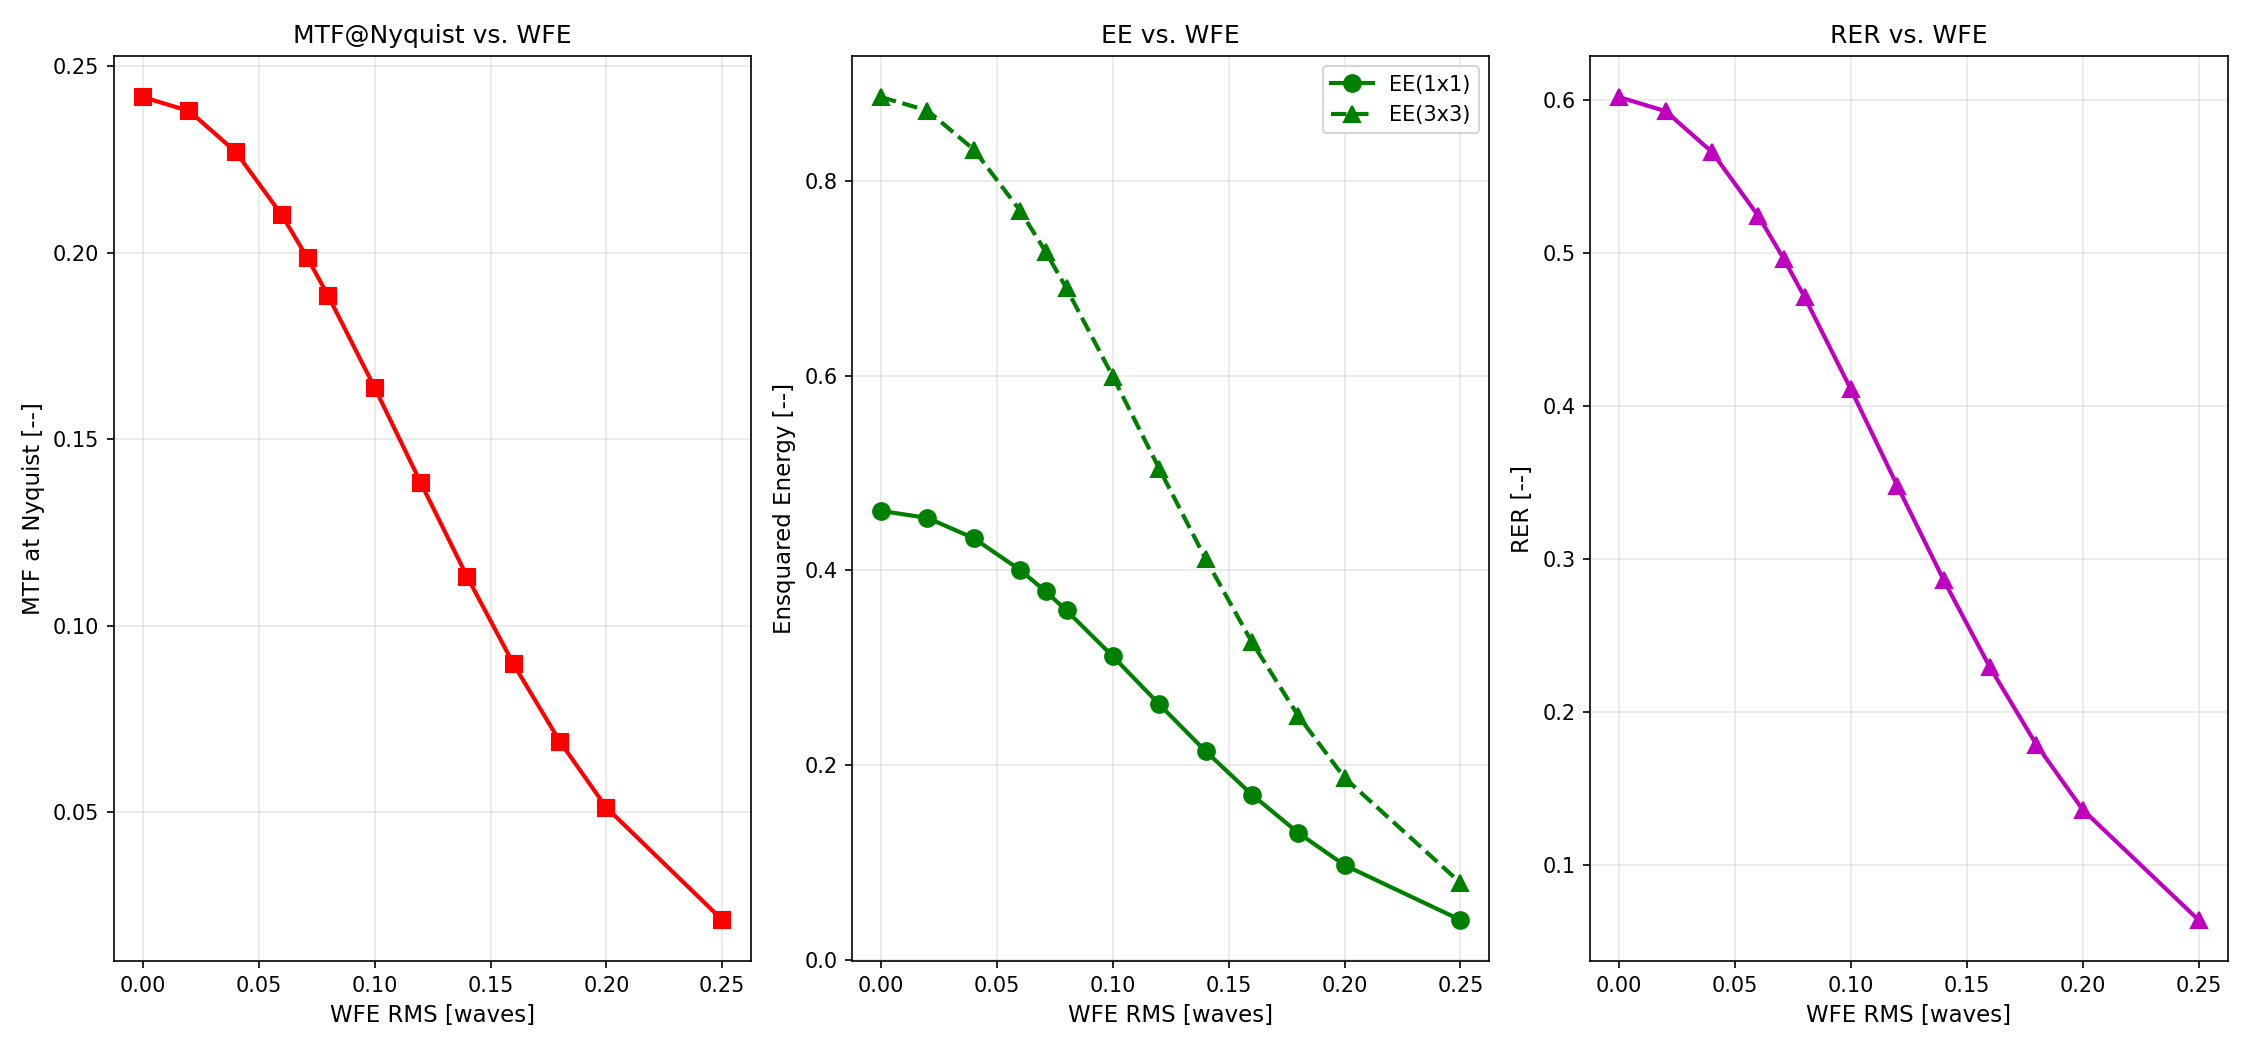
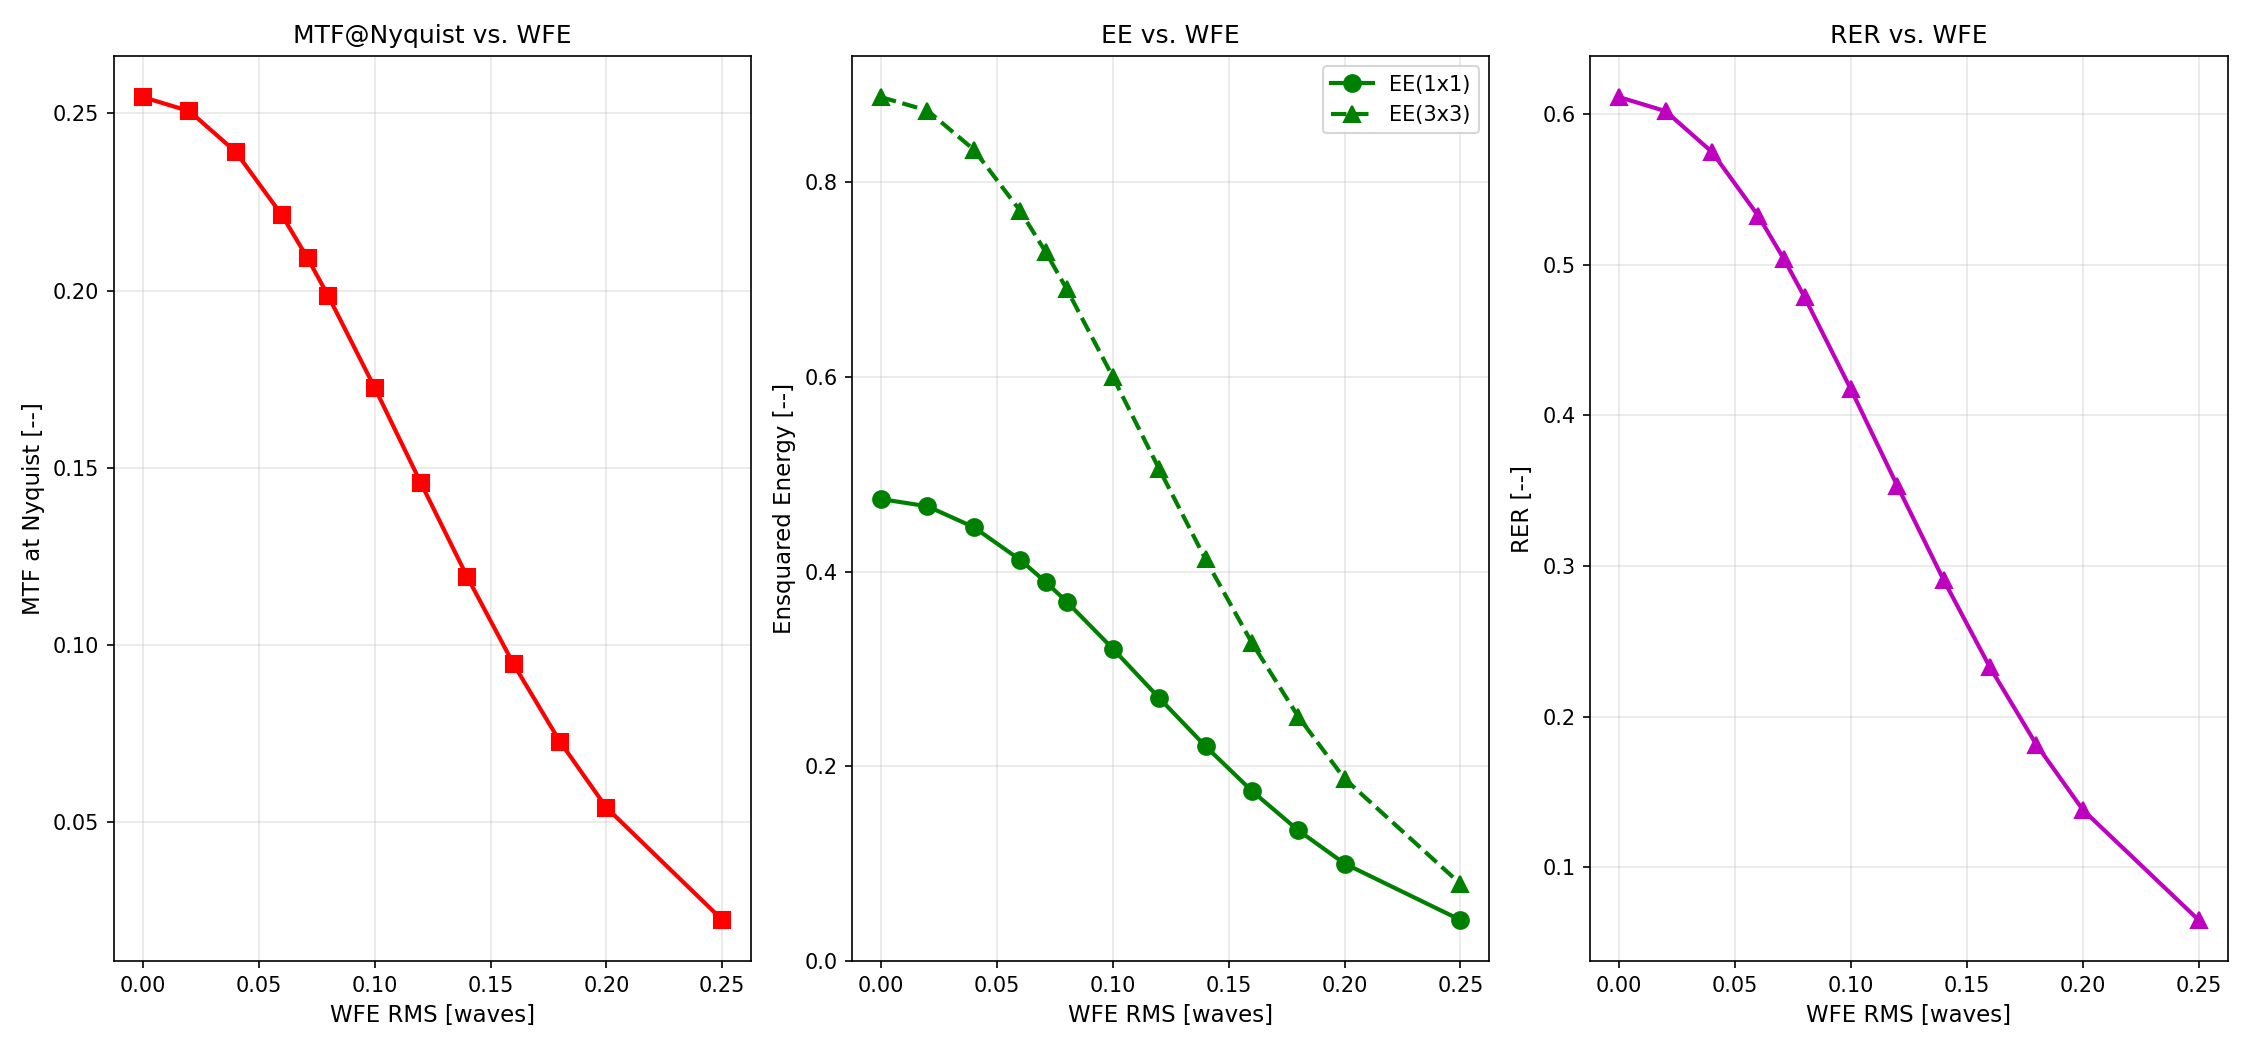
docs(scenarios): CU-176 — refresh 5.1 (WFE budget) numbers + figures vs current engine
Post-recalibration VNIR chain (Gap 38 scattered-sky + CU-155/161) shifts
SNR 250.6→242.2, signal 62,818→58,710 e-. WFE sweep table, Zernike-vs-scalar
comparison, metric-degradation table, and 3 figures regenerated. Spatial
trends unchanged.

diff --git a/scenarios/05_tom_optical_designer/5.1_wfe_budget_allocation/walkthrough.md b/scenarios/05_tom_optical_designer/5.1_wfe_budget_allocation/walkthrough.md
@@ -1,15 +1,16 @@
 # Scenario 5.1 Walkthrough: WFE Budget Allocation — How Much Aberration Can I Tolerate?
 
 
-> **NIIRS applicability — engine update (CU-166).** Since this walkthrough was written, RADIANT added a metric-applicability gate: when one or more GIQE-5 inputs fall outside the calibration envelope — GSD 1.18–31.5 inch, RER 0.20–0.95, SNR 2–130 — the engine reports **NIIRS as N/A** by default instead of silently extrapolating. This configuration is outside that envelope, so the NIIRS values below are the **extrapolated** GIQE-5-form output: reproduce them with `performance.niirs.allow_extrapolated = true` and read them as a *relative trend, not a calibrated rating*. (The SNR/NEDT figures here predate later physics updates and are indicative; a full numeric refresh is tracked separately in the cleanup backlog. No IR-calibrated IIRS model yet — see `docs/tracking/gaps.md` Gap 100.)
+> **NIIRS applicability — engine update (CU-166).** Since this walkthrough was written, RADIANT added a metric-applicability gate: when one or more GIQE-5 inputs fall outside the calibration envelope — GSD 1.18–31.5 inch, RER 0.20–0.95, SNR 2–130 — the engine reports **NIIRS as N/A** by default instead of silently extrapolating. This configuration is outside that envelope, so the NIIRS values below are the **extrapolated** GIQE-5-form output: reproduce them with `performance.niirs.allow_extrapolated = true` and read them as a *relative trend, not a calibrated rating*. (SNR/spatial figures were refreshed 2026-07-22 against the current engine, CU-176. No IR-calibrated IIRS model yet — see `docs/tracking/gaps.md` Gap 100.)
 
 Refreshed 2026-07-07 (Scenario_Execution_Plan Phase R): the Zernike
 prescription is now parsed from the Zemax text export via
 `load_zemax_zernike` (Gap 26), the allocation is a `radiant.api.ErrorBudget`
 (Gaps 23+28), and a Zernike-mode chain run compares the actual prescription
-against the scalar-RMS screen at the same total RMS. Numbers below are from
-the refreshed run (SNR/NIIRS are higher than the first execution — the
-column-integrated atmospheric transmittance fix raised in-band signal).
+against the scalar-RMS screen at the same total RMS. Numbers below were
+refreshed 2026-07-22 (CU-176) against the current engine; the post-recalibration
+VNIR chain (Gap 38 scattered-sky + CU-155/161) shifts SNR to 242.2 (from 250.6
+in the 2026-07-07 run). WFE-driven spatial trends are unchanged.
 
 ## Persona
 Tom, optical designer. He has a Zernike decomposition from Zemax for a 40 cm Cassegrain telescope (f/10, 35% linear obscuration) operating in VNIR (500--800 nm). He wants to determine how much total WFE RMS his design can tolerate before Strehl, MTF, EE, RER, and NIIRS degrade unacceptably.
@@ -103,12 +104,12 @@ before chain execution; there is no scalar-parameter path for Zernike mode).
 
 | Metric | Zernike (actual) | Scalar screen | Δ |
 |--------|-----------------:|--------------:|---:|
-| Strehl [--] | 0.9194 | 0.9019 | +0.0175 |
-| MTF@Nyquist [--] | 0.2132 | 0.2181 | −0.0049 |
-| EE(1x1) [--] | 0.4255 | 0.4157 | +0.0098 |
-| RER [--] | 0.5728 | 0.5443 | +0.0285 |
+| Strehl [--] | 0.9174 | 0.9019 | +0.0156 |
+| MTF@Nyquist [--] | 0.2246 | 0.2297 | −0.0051 |
+| EE(1x1) [--] | 0.4378 | 0.4280 | +0.0099 |
+| RER [--] | 0.5812 | 0.5526 | +0.0285 |
 | NIIRS [--] | 6.54 | 6.47 | +0.07 |
-| SNR [--] | 250.6 | 250.6 | 0 |
+| SNR [--] | 242.2 | 242.2 | 0 |
 
 Same total RMS, different modal mix, different metrics — the shape effect a
 single RMS number cannot capture. At this small RMS (Strehl ≈ 0.9) the
@@ -123,19 +124,19 @@ whenever one exists.
 ### WFE Sweep
 | WFE [waves] | Strehl [--] | MTF@Nyq [--] | EE(1x1) [--] | EE(3x3) [--] | RER [--] | NIIRS [--] |
 |---|---|---|---|---|---|---|
-| 0.000 | 1.0000 | 0.2418 | 0.4609 | 0.8861 | 0.6021 | 6.62 |
-| 0.020 | 0.9844 | 0.2380 | 0.4538 | 0.8723 | 0.5930 | 6.59 |
-| 0.040 | 0.9391 | 0.2271 | 0.4329 | 0.8322 | 0.5663 | 6.53 |
-| 0.060 | 0.8683 | 0.2101 | 0.4002 | 0.7695 | 0.5245 | 6.42 |
-| 0.071 | 0.8207 | 0.1986 | 0.3783 | 0.7272 | 0.4964 | 6.34 |
-| 0.080 | 0.7781 | 0.1884 | 0.3587 | 0.6896 | 0.4713 | 6.26 |
-| 0.100 | 0.6759 | 0.1638 | 0.3115 | 0.5990 | 0.4110 | 6.07 |
-| 0.120 | 0.5692 | 0.1382 | 0.2623 | 0.5045 | 0.3480 | 5.83 |
-| 0.140 | 0.4648 | 0.1131 | 0.2142 | 0.4119 | 0.2864 | 5.55 |
-| 0.160 | 0.3681 | 0.0897 | 0.1696 | 0.3262 | 0.2292 | 5.22 |
-| 0.180 | 0.2827 | 0.0689 | 0.1302 | 0.2505 | 0.1788 | 4.87 |
-| 0.200 | 0.2107 | 0.0513 | 0.0970 | 0.1867 | 0.1363 | 4.47 |
-| 0.250 | 0.0886 | 0.0212 | 0.0407 | 0.0788 | 0.0641 | 3.39 |
+| 0.000 | 1.0000 | 0.2546 | 0.4745 | 0.8877 | 0.6114 | 6.62 |
+| 0.020 | 0.9844 | 0.2506 | 0.4671 | 0.8739 | 0.6021 | 6.59 |
+| 0.040 | 0.9392 | 0.2392 | 0.4457 | 0.8337 | 0.5750 | 6.53 |
+| 0.060 | 0.8683 | 0.2212 | 0.4120 | 0.7709 | 0.5325 | 6.42 |
+| 0.071 | 0.8207 | 0.2092 | 0.3894 | 0.7286 | 0.5040 | 6.34 |
+| 0.080 | 0.7781 | 0.1984 | 0.3692 | 0.6909 | 0.4785 | 6.26 |
+| 0.100 | 0.6759 | 0.1725 | 0.3207 | 0.6001 | 0.4173 | 6.07 |
+| 0.120 | 0.5692 | 0.1455 | 0.2701 | 0.5054 | 0.3533 | 5.83 |
+| 0.140 | 0.4648 | 0.1191 | 0.2205 | 0.4127 | 0.2907 | 5.54 |
+| 0.160 | 0.3680 | 0.0944 | 0.1746 | 0.3268 | 0.2327 | 5.22 |
+| 0.180 | 0.2827 | 0.0726 | 0.1341 | 0.2510 | 0.1815 | 4.86 |
+| 0.200 | 0.2106 | 0.0540 | 0.0999 | 0.1871 | 0.1382 | 4.47 |
+| 0.250 | 0.0885 | 0.0223 | 0.0419 | 0.0790 | 0.0649 | 3.38 |
 
 ### NIIRS Thresholds
 | Degradation | WFE Threshold [waves] |
@@ -150,14 +151,14 @@ whenever one exists.
 | 0.000 | 0.0 | 0.0 | 0.0 | 0.0 | 0.00 | diffraction-limited |
 | 0.040 | -6.1 | -6.1 | -6.1 | -6.0 | -0.09 | diffraction-limited |
 | 0.071 | -17.9 | -17.8 | -17.9 | -17.6 | -0.28 | diffraction-limited |
-| 0.100 | -32.4 | -32.2 | -32.4 | -31.7 | -0.55 | acceptable |
-| 0.140 | -53.5 | -53.2 | -53.5 | -52.4 | -1.07 | moderate |
+| 0.100 | -32.4 | -32.2 | -32.4 | -31.8 | -0.55 | acceptable |
+| 0.140 | -53.5 | -53.2 | -53.5 | -52.5 | -1.07 | moderate |
 | 0.200 | -78.9 | -78.8 | -79.0 | -77.4 | -2.14 | significant |
 | 0.250 | -91.1 | -91.2 | -91.2 | -89.4 | -3.23 | severe |
 
 ### Tom's Design Assessment
 - **Total Zernike RMS**: 0.0513 waves (run in Zernike mode, not just the nearest sweep point)
-- **Strehl**: 0.9194 (well above 0.80 diffraction limit; the structured prescription outperforms a random screen at the same RMS)
+- **Strehl**: 0.9174 (well above 0.80 diffraction limit; the structured prescription outperforms a random screen at the same RMS)
 - **dNIIRS**: -0.08 (Zernike mode) vs -0.15 (scalar screen at the same RMS)
 - **Budget**: RSS 0.0513 vs allocation 0.0714 waves — within budget, 0.0497 waves RSS headroom for assembly/thermal terms
 - **Assessment**: Tom's WFE budget is well within diffraction-limited territory.
@@ -165,13 +166,13 @@ whenever one exists.
 ### Noise Budget (constant across sweep)
 | Noise Term | Value [e- RMS] | Fraction [%] |
 |---|---|---|
-| signal_shot | 250.6 | 100.0 |
+| signal_shot | 242.3 | 100.0 |
 | dark_shot | 0.1 | 0.0 |
 | read_noise | 5.0 | 0.0 |
 | quantization | 0.3 | 0.0 |
-| TOTAL (RSS) | 250.7 | 100.0 |
+| TOTAL (RSS) | 242.4 | 100.0 |
 
-Signal: 62,818 e-, SNR: 250.6. WFE does not affect noise — it degrades spatial metrics only. (The background-shot term present in the first run is now zero: in the extended regime RADIANT skips the separate scene-background photon term by design — matrix Decision #13.)
+Signal: 58,710 e-, SNR: 242.2. WFE does not affect noise — it degrades spatial metrics only. (The background-shot term present in the first run is now zero: in the extended regime RADIANT skips the separate scene-background photon term by design — matrix Decision #13.)
 
 ## Physics Discussion
 
@@ -198,7 +199,7 @@ WFE does not add noise. The signal (photons collected) is determined by the sour
 NIIRS changes with WFE come entirely through the RER term (3.32 x log10(RER)) and marginally through the EE-dependent signal term for point sources.
 
 ### Undersampled System (Q = 0.65)
-This system is undersampled (Q < 1), meaning the pixel pitch is larger than the Airy disk core. The detector MTF at Nyquist limits the achievable system MTF even with perfect optics. At Q = 0.65, the baseline MTF@Nyquist is 0.24 — well below the diffraction-limited OTF value. Adding WFE reduces this further.
+This system is undersampled (Q < 1), meaning the pixel pitch is larger than the Airy disk core. The detector MTF at Nyquist limits the achievable system MTF even with perfect optics. At Q = 0.65, the baseline MTF@Nyquist is 0.25 — well below the diffraction-limited OTF value. Adding WFE reduces this further.
 
 ### All Metrics Track Together
 In this scenario, all spatial metrics (Strehl, MTF@Nyq, EE(1x1), RER) degrade at nearly the same rate. This is because all are derived from the same EffectivePSF. The percentage degradation at each WFE level is consistent across metrics (within ~1-2%). This self-consistency is a validation check — if one metric degraded much faster than another, it would indicate an implementation error.
